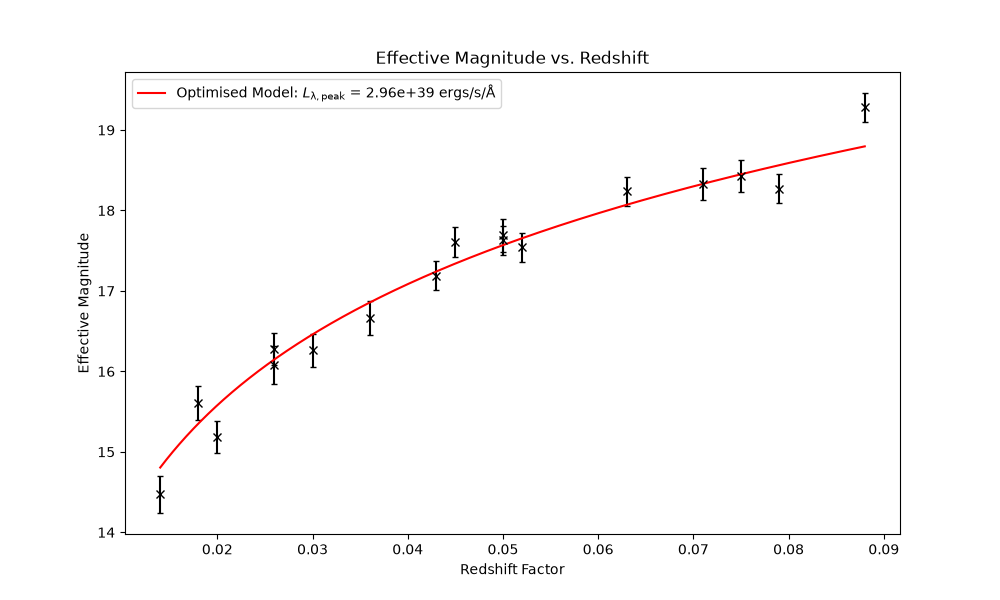
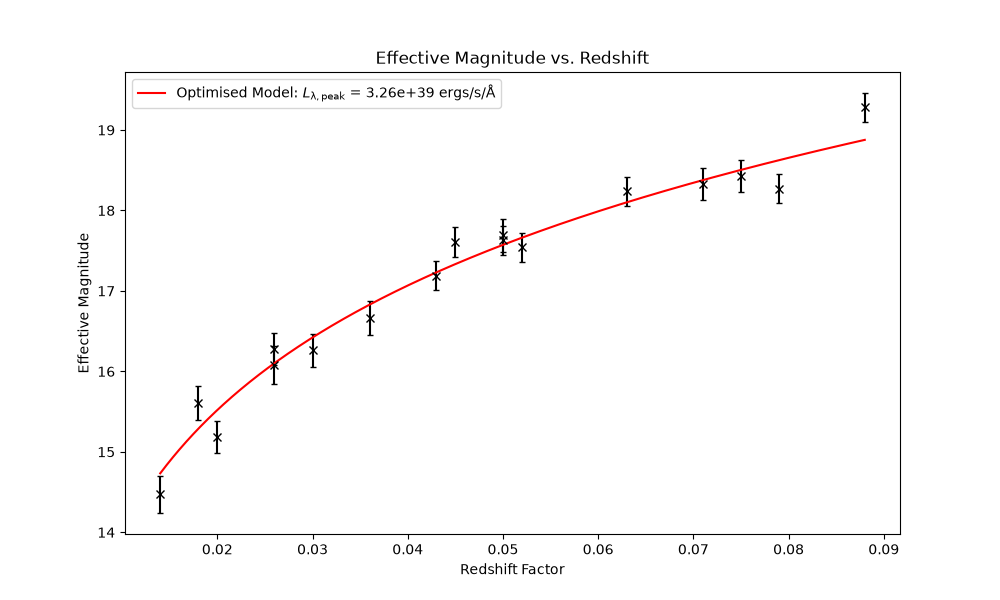
Correct maths for L_lambda_peak
A sensible result for Omega_Lambda is produced (0.71). Need to refactor and improve graphs

diff --git a/milestone_project.py b/milestone_project.py
@@ -75,7 +75,7 @@ def small_z_model_function(redshifts: np.ndarray, L_lambda_peak: float) -> np.nd
     :returns: effective magnitudes.
     """
     distances = calculate_distance_small_z(redshifts)  # cm
-    fluxes = L_lambda_peak / (4 * np.pi * distances ** 2)
+    fluxes = L_lambda_peak / (4 * np.pi * distances ** 2 * (1+redshifts)**2)
     m_effectives = -2.5 * np.log10(fluxes / F_LAMBDA_0)
     return m_effectives
 
@@ -240,7 +240,7 @@ def main()-> None:
     omega_Lambda_samples = np.linspace(0, 1, 100)
     reduced_chi_squared_samples = []
     for omega in omega_Lambda_samples:
-        _, reduced_chi_squared = all_z_return_chi_squared(redshifts, m_effectives, errs, omega, L_lambda_peak=L_lambda_peak+err_L_lambda_peak)
+        _, reduced_chi_squared = all_z_return_chi_squared(redshifts, m_effectives, errs, omega, L_lambda_peak)
         reduced_chi_squared_samples.append(reduced_chi_squared)
     plt.figure(figsize=(10, 6))
     plt.plot(omega_Lambda_samples, reduced_chi_squared_samples, color='g')
